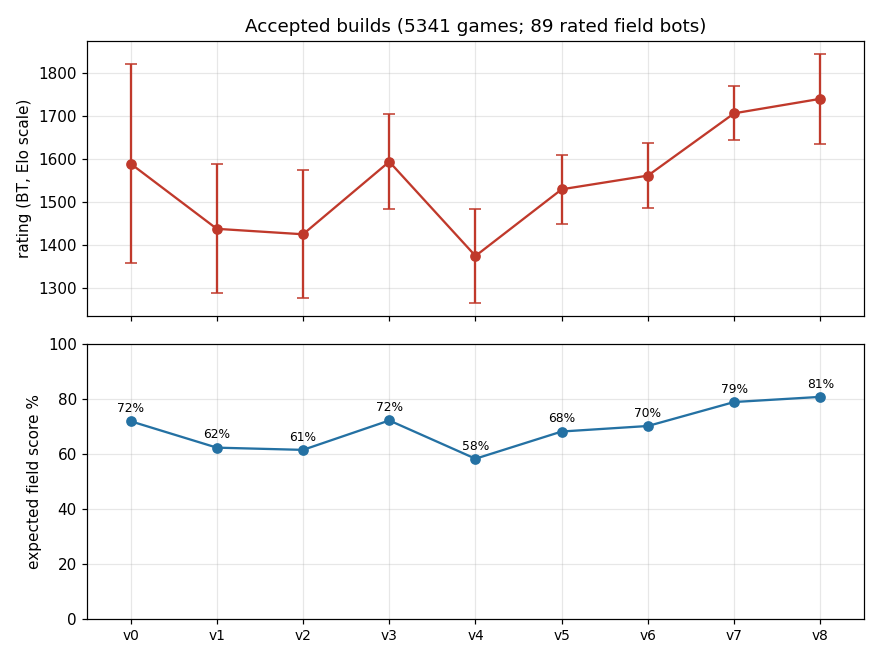
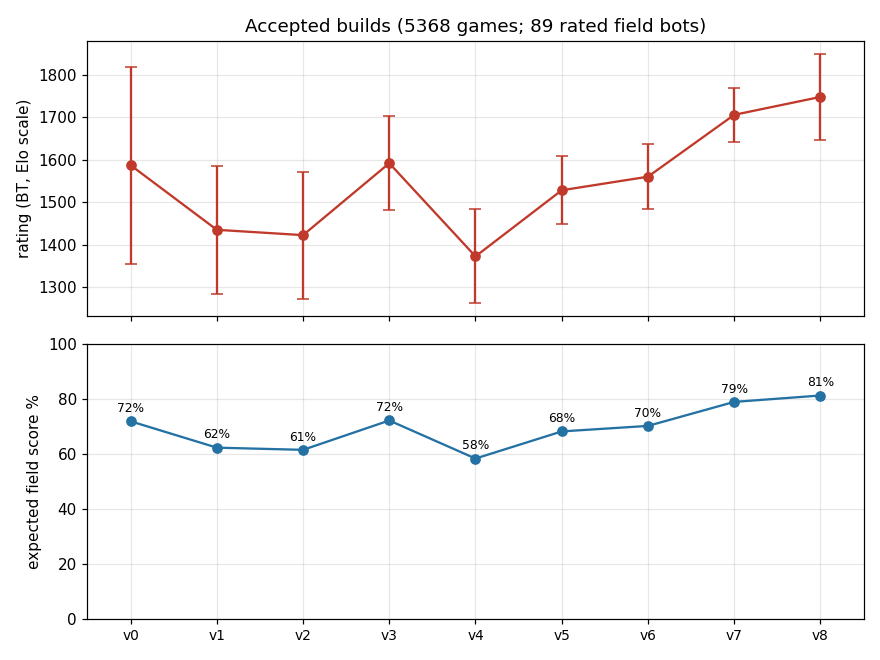
progress charts refreshed
Claude-Session: https://claude.ai/code/session_01AiqcCn5kTWgBw5Au6gP2Yj

diff --git a/progress/rating-history.md b/progress/rating-history.md
@@ -1,6 +1,6 @@
 # Rating history (replica)
 
-The replica's Team page Rating History for vibe19: the displayed rating (siarnaq's penalized Elo) after each rated (ranked, non-tournament) match, with each submission's first completed rated match marked. Written by `tools/progress/rating_history.py` from data fetched 2026-10-24 08:27 PDT; regenerate, do not edit.
+The replica's Team page Rating History for vibe19: the displayed rating (siarnaq's penalized Elo) after each rated (ranked, non-tournament) match, with each submission's first completed rated match marked. Written by `tools/progress/rating_history.py` from data fetched 2026-10-24 08:42 PDT; regenerate, do not edit.
 
 ![rating history](rating-history.png)
 
@@ -10,6 +10,6 @@ BT = the build's Bradley-Terry rating in `progress/ELO.md` (± 95%), the same fo
 
 | Submission | Build | First rated match | Time | Rating before | Rating after | Rated matches | BT |
 |---:|---|---:|---|---:|---:|---:|---:|
-| #1 | v1 | 1 | 2026-10-21 09:21 PDT | 0 | 237 | 12 | 1438 ± 151 |
-| #7 | v3 | 66 | 2026-10-21 12:22 PDT | 1,208 | 1,270 | 26 | 1594 ± 111 |
-| #95 | v5 | 220 | 2026-10-22 01:00 PDT | 1,725 | 1,732 | 4 | 1530 ± 80 |
+| #1 | v1 | 1 | 2026-10-21 09:21 PDT | 0 | 237 | 12 | 1435 ± 151 |
+| #7 | v3 | 66 | 2026-10-21 12:22 PDT | 1,208 | 1,270 | 26 | 1592 ± 111 |
+| #95 | v5 | 220 | 2026-10-22 01:00 PDT | 1,725 | 1,732 | 4 | 1528 ± 80 |
